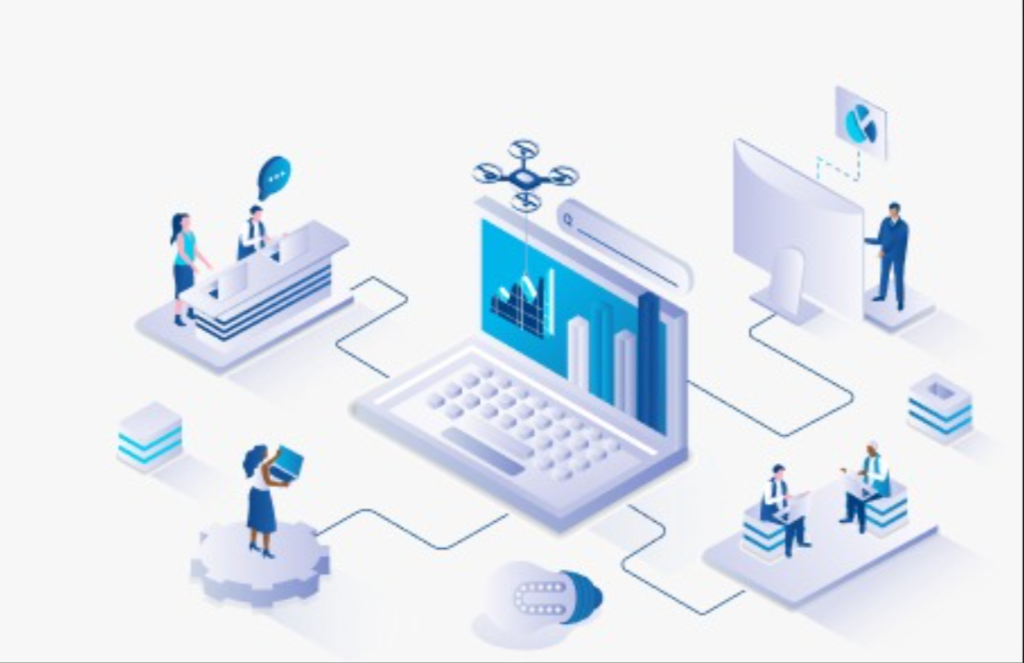
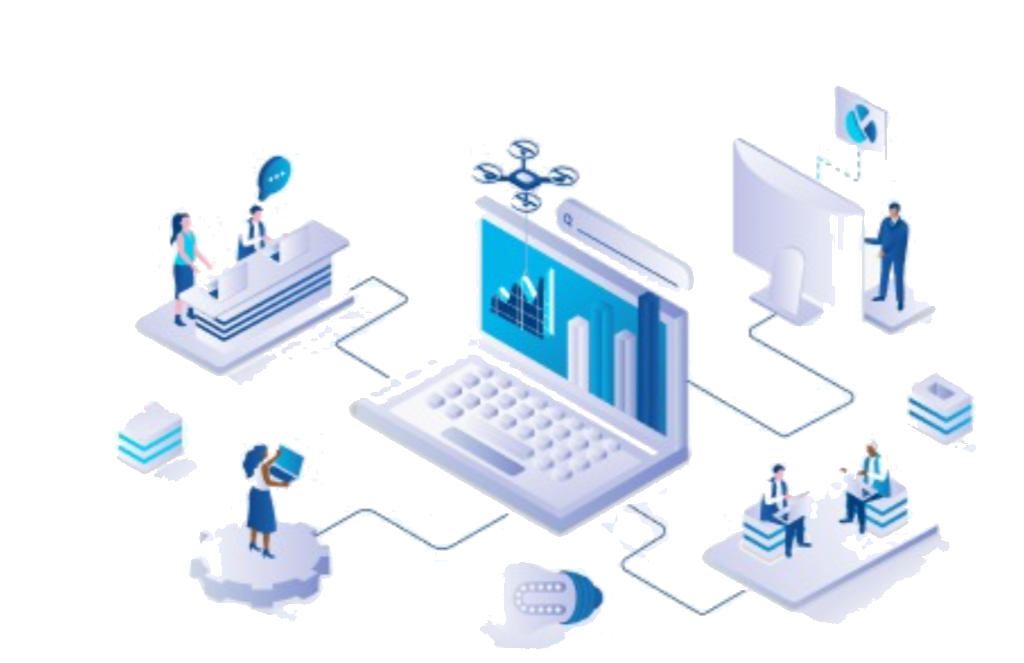
Make researcher-illustration background transparent, remove multiply blend mode, and allow overlap with overflow visible

diff --git a/app/dashboard/page.js b/app/dashboard/page.js
@@ -646,13 +646,13 @@ function ResearcherDashboard({ profile }) {
 
   return (
     <div>
-      <div style={{ background: "linear-gradient(135deg, #F0FDF9 0%, #EBF9F6 100%)", borderRadius: "20px", padding: "32px 40px", display: "flex", justifyContent: "space-between", alignItems: "center", marginBottom: "24px", border: "1px solid #B2EDE1", position: "relative", overflow: "hidden" }}>
+      <div style={{ background: "linear-gradient(135deg, #F0FDF9 0%, #EBF9F6 100%)", borderRadius: "20px", padding: "32px 40px", display: "flex", justifyContent: "space-between", alignItems: "center", marginTop: "20px", marginBottom: "36px", border: "1px solid #B2EDE1", position: "relative", overflow: "visible" }}>
         <div style={{ position: "relative", zIndex: 2 }}>
           <h1 style={{ fontSize: "28px", fontWeight: 700, color: "#1B2B3A", marginBottom: "6px" }}>Welcome Back, Dr. {profile?.full_name?.split(" ")[0]}!</h1>
           <p style={{ fontSize: "14px", color: "#6B8A9A", marginBottom: "20px" }}>Continue your Research Journey here</p>
-          <a href="/profile" style={{ display: "inline-block", background: "#1B2B3A", color: "#fff", padding: "10px 22px", borderRadius: "10px", fontSize: "14px", fontWeight: 500 }}>View Profile</a>
+          <a href="/profile" style={{ display: "inline-block", background: "#1B2B3A", color: "#fff", padding: "10px 24px", borderRadius: "100px", fontSize: "14px", fontWeight: 500, textDecoration: "none" }}>View Profile</a>
         </div>
-        <div style={{ position: "absolute", right: "-10px", top: "50%", transform: "translateY(-50%)", width: "320px", height: "320px", mixBlendMode: "multiply", zIndex: 1 }}>
+        <div style={{ position: "absolute", right: "-10px", top: "50%", transform: "translateY(-50%)", width: "320px", height: "320px", zIndex: 5, pointerEvents: "none" }}>
           <img src="/researcher-illustration.png" alt="Researcher Illustration" style={{ width: "100%", height: "100%", objectFit: "contain" }} />
         </div>
       </div>
